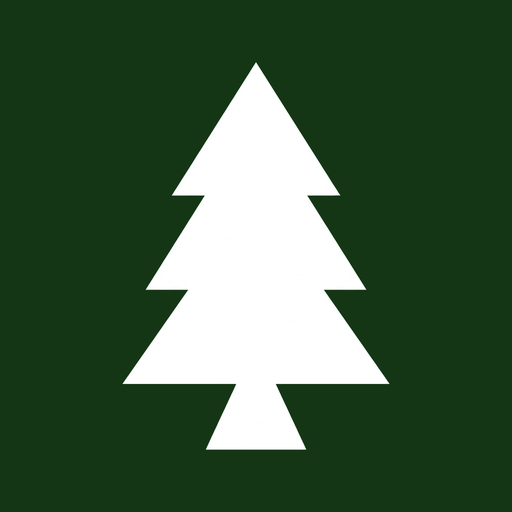
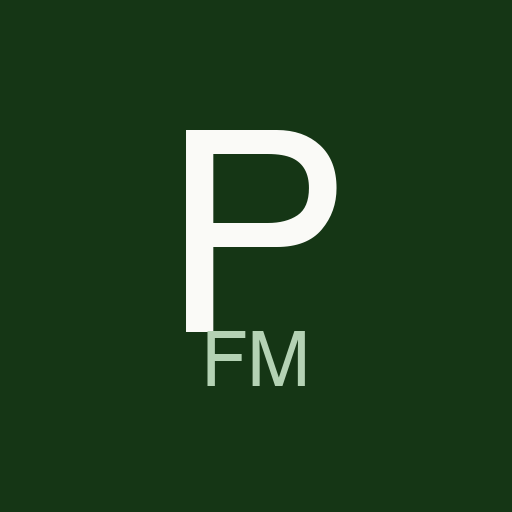
revert(ikona): zpet na puvodni

Changed region(s): [[0.2188, 0.125, 0.7812, 0.9062]]

diff --git a/apps/web/src/app/apple-icon.tsx b/apps/web/src/app/apple-icon.tsx
@@ -1,0 +1,29 @@
+import { ImageResponse } from "next/og";
+
+export const size = { width: 180, height: 180 };
+export const contentType = "image/png";
+
+export default function AppleIcon() {
+  return new ImageResponse(
+    (
+      <div
+        style={{
+          width: 180,
+          height: 180,
+          borderRadius: 40,
+          background: "linear-gradient(135deg, #2D5F2D, #1e3d1e)",
+          display: "flex",
+          alignItems: "center",
+          justifyContent: "center",
+          fontSize: 90,
+          fontWeight: 800,
+          color: "white",
+          fontFamily: "system-ui, sans-serif",
+        }}
+      >
+        P
+      </div>
+    ),
+    { ...size },
+  );
+}

diff --git a/apps/web/src/app/icon.tsx b/apps/web/src/app/icon.tsx
@@ -1,0 +1,29 @@
+import { ImageResponse } from "next/og";
+
+export const size = { width: 32, height: 32 };
+export const contentType = "image/png";
+
+export default function Icon() {
+  return new ImageResponse(
+    (
+      <div
+        style={{
+          width: 32,
+          height: 32,
+          borderRadius: 8,
+          background: "linear-gradient(135deg, #2D5F2D, #1e3d1e)",
+          display: "flex",
+          alignItems: "center",
+          justifyContent: "center",
+          fontSize: 18,
+          fontWeight: 800,
+          color: "white",
+          fontFamily: "system-ui, sans-serif",
+        }}
+      >
+        P
+      </div>
+    ),
+    { ...size },
+  );
+}
